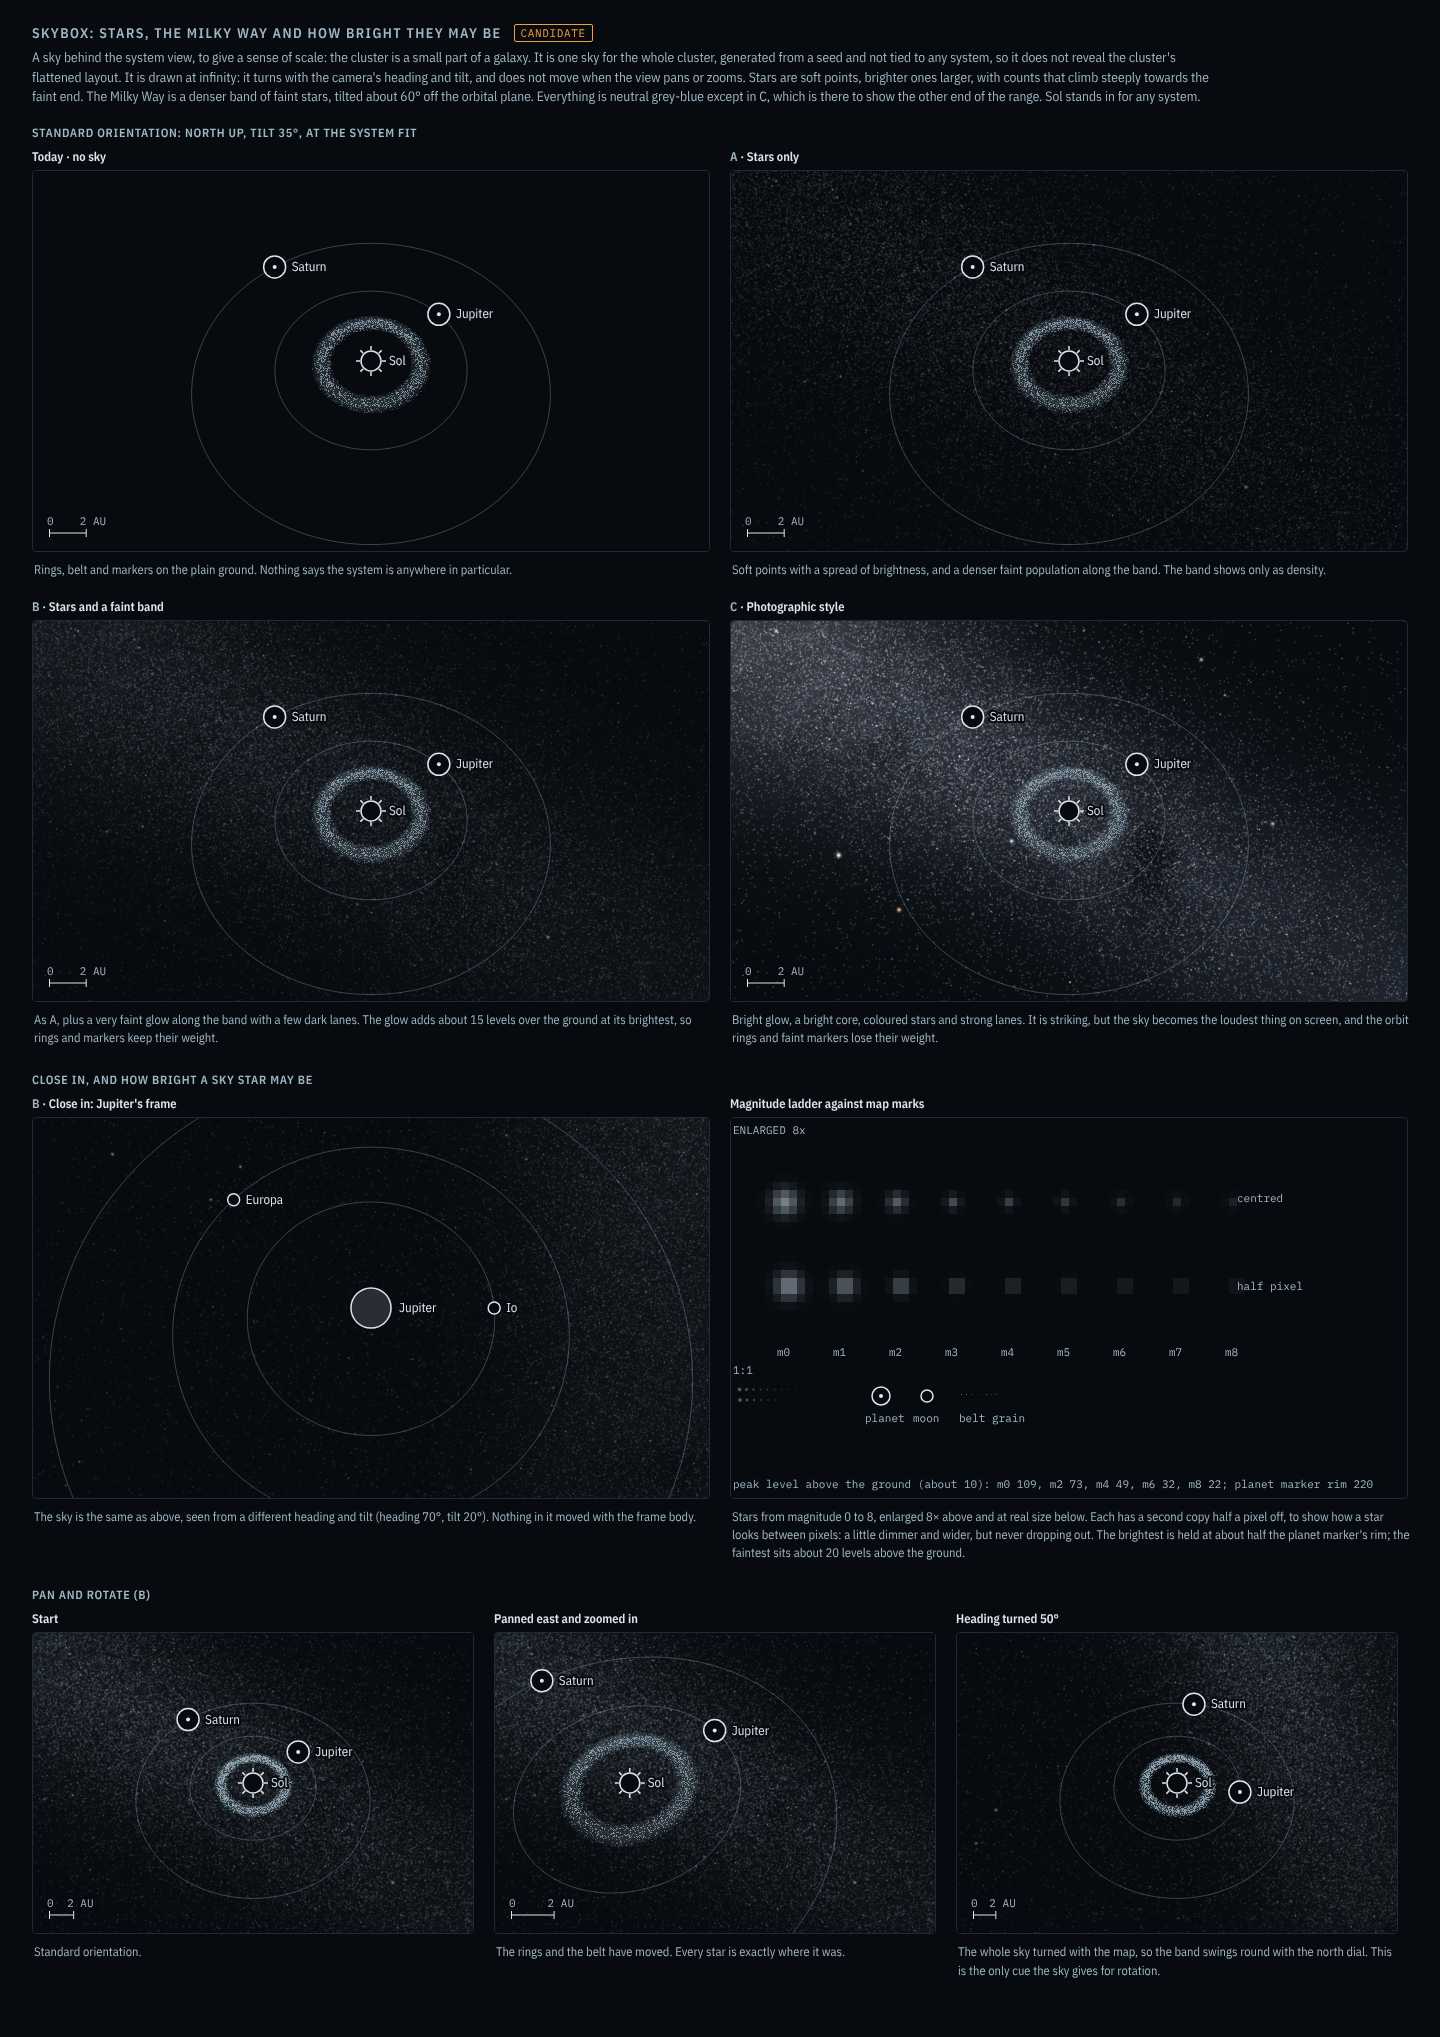
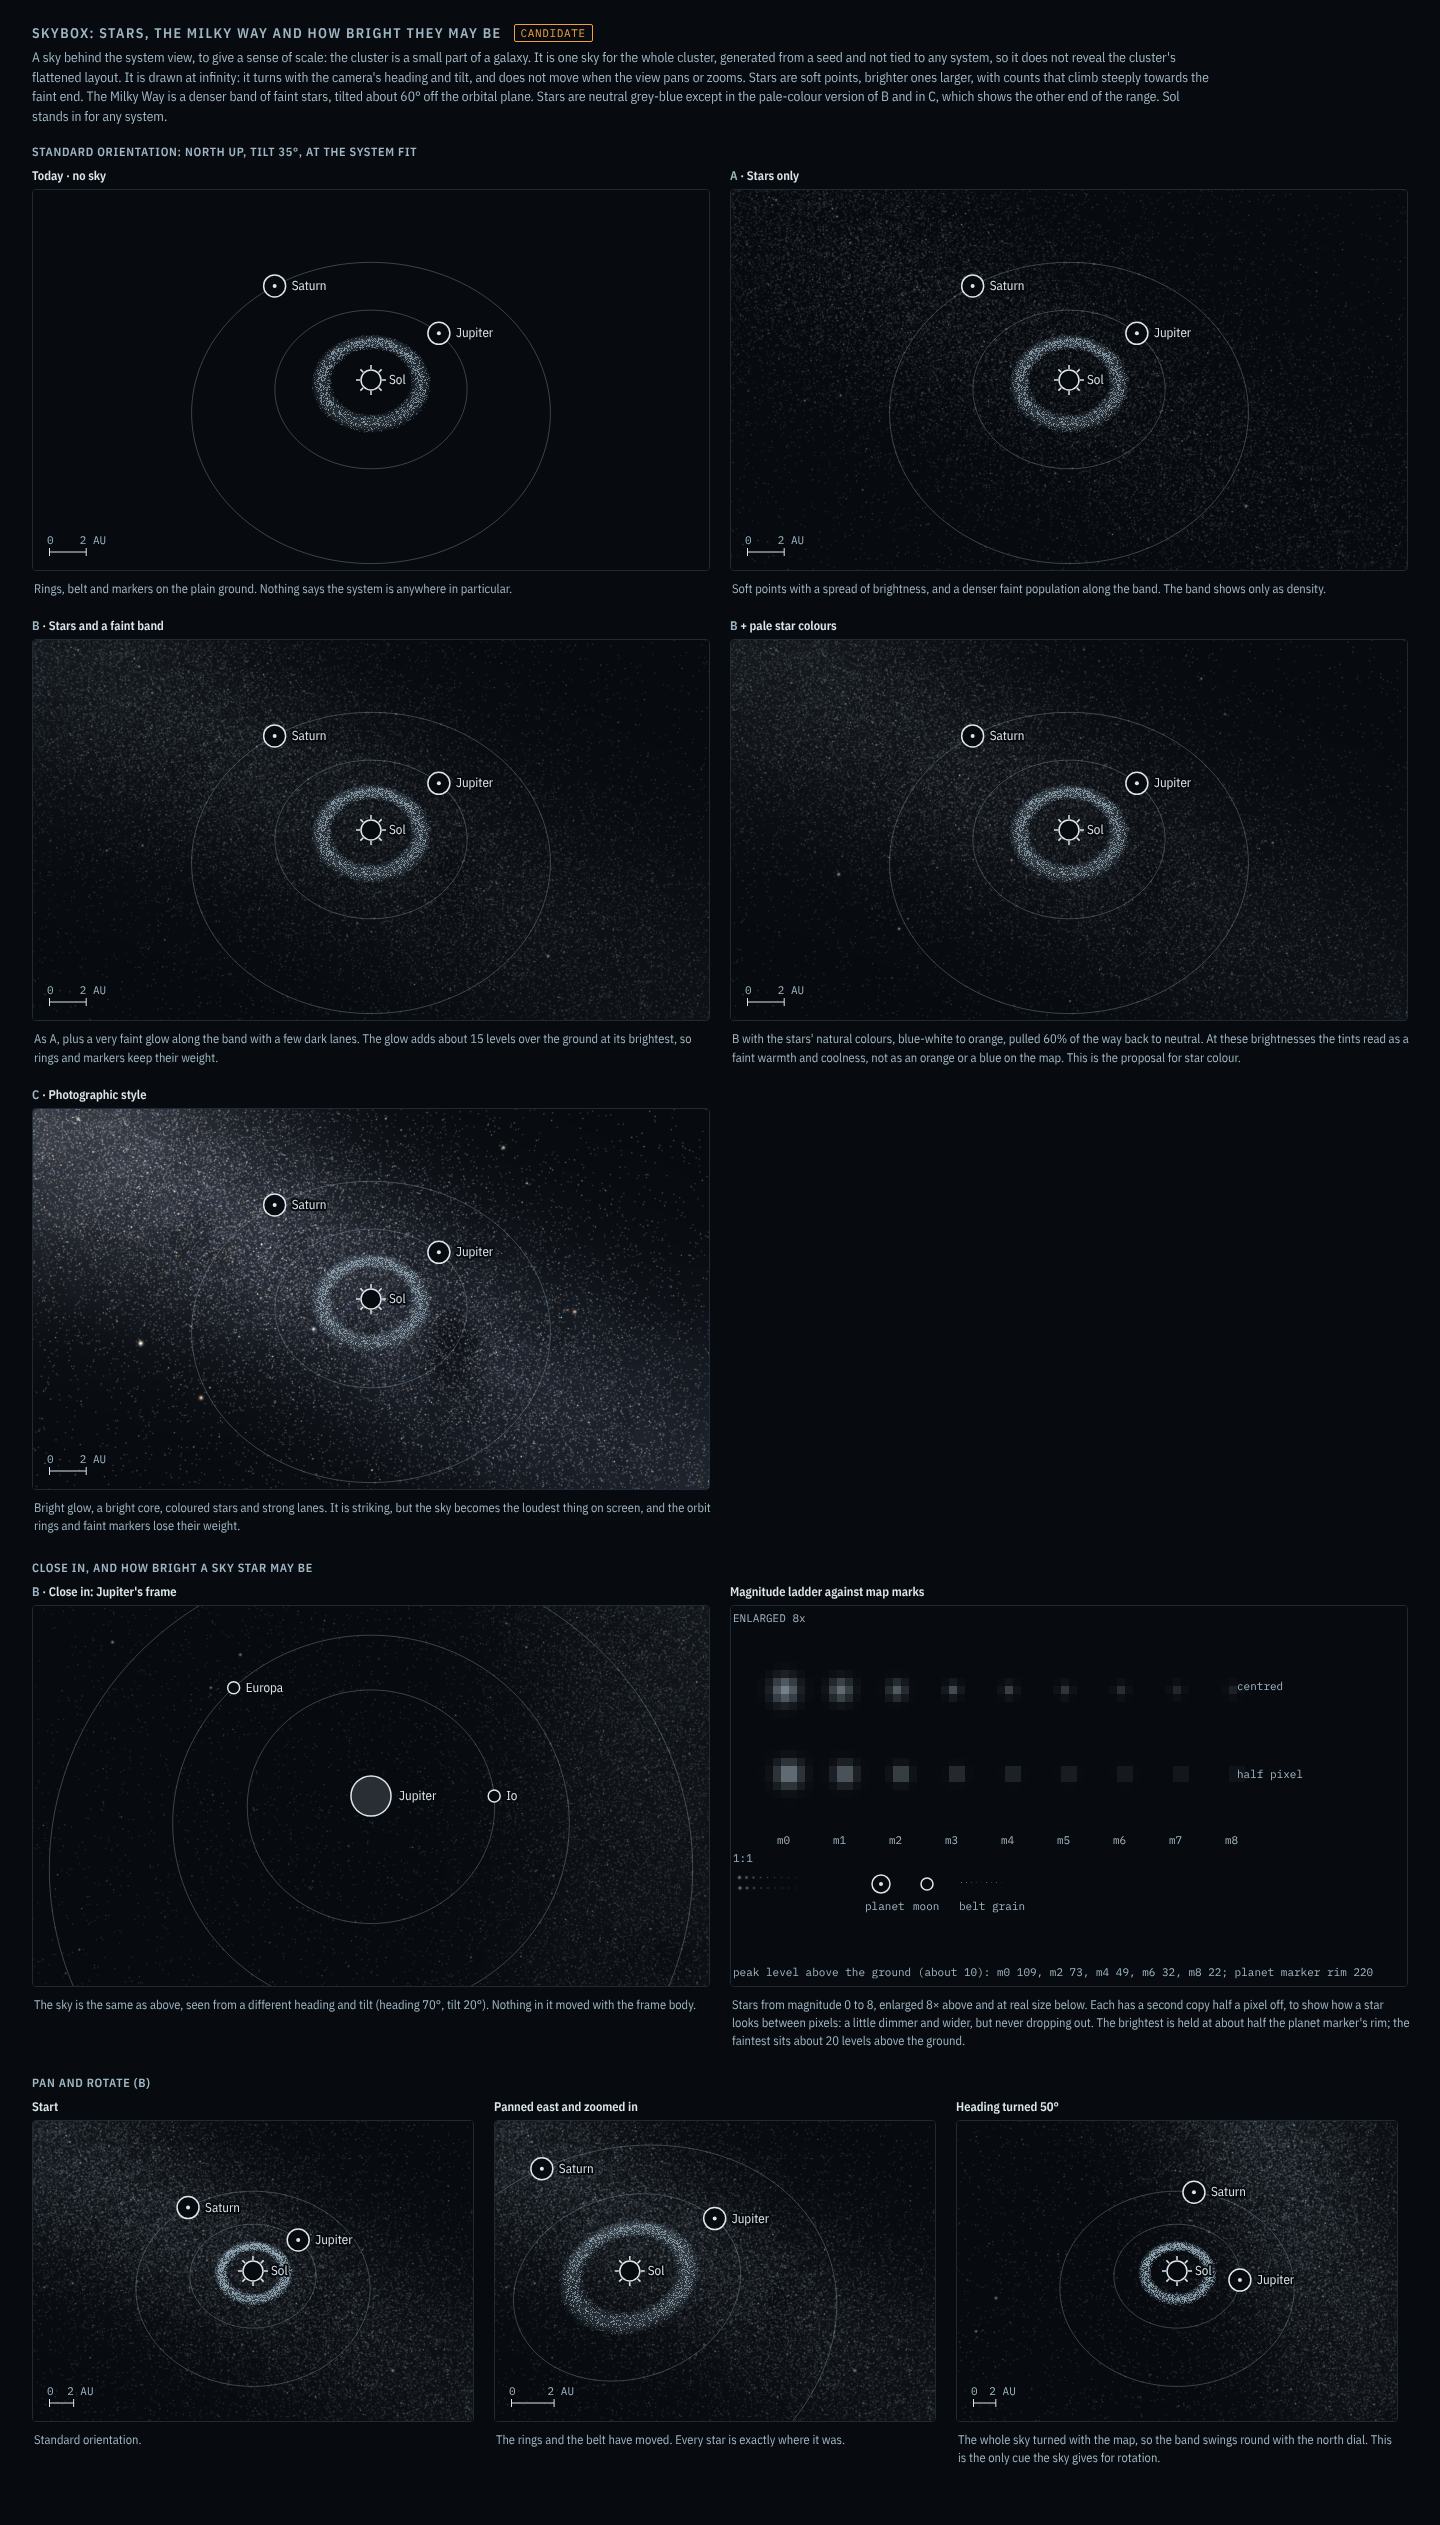
Ideas: sky settled on style B, on by default, pale star colours, no text cue
Adds a pale-colour version of B to mock-up 28. The layers menu is left
as an open question.

Claude-Session: https://claude.ai/code/session_01Ya1hy8ocgamxqfcSSB6nF7

diff --git a/docs/ideas/presentation/mockups/28-skybox.html b/docs/ideas/presentation/mockups/28-skybox.html
@@ -37,7 +37,7 @@ h1{font-size:14px;font-weight:600;color:var(--muted);letter-spacing:.1em;text-tr
 </head>
 <body>
 <h1>Skybox: stars, the Milky Way and how bright they may be <span class="tag">CANDIDATE</span></h1>
-<p class="lede">A sky behind the system view, to give a sense of scale: the cluster is a small part of a galaxy. It is one sky for the whole cluster, generated from a seed and not tied to any system, so it does not reveal the cluster's flattened layout. It is drawn at infinity: it turns with the camera's heading and tilt, and does not move when the view pans or zooms. Stars are soft points, brighter ones larger, with counts that climb steeply towards the faint end. The Milky Way is a denser band of faint stars, tilted about 60° off the orbital plane. Everything is neutral grey-blue except in C, which is there to show the other end of the range. Sol stands in for any system.</p>
+<p class="lede">A sky behind the system view, to give a sense of scale: the cluster is a small part of a galaxy. It is one sky for the whole cluster, generated from a seed and not tied to any system, so it does not reveal the cluster's flattened layout. It is drawn at infinity: it turns with the camera's heading and tilt, and does not move when the view pans or zooms. Stars are soft points, brighter ones larger, with counts that climb steeply towards the faint end. The Milky Way is a denser band of faint stars, tilted about 60° off the orbital plane. Stars are neutral grey-blue except in the pale-colour version of B and in C, which shows the other end of the range. Sol stands in for any system.</p>
 
 <section class="board"><h2>Standard orientation: north up, tilt 35°, at the system fit</h2>
   <div class="row">
@@ -47,6 +47,8 @@ h1{font-size:14px;font-weight:600;color:var(--muted);letter-spacing:.1em;text-tr
       <p class="cap">Soft points with a spread of brightness, and a denser faint population along the band. The band shows only as density.</p></div>
     <div class="cell"><h3><i>B</i> · Stars and a faint band</h3><div class="frame" id="a2"></div>
       <p class="cap">As A, plus a very faint glow along the band with a few dark lanes. The glow adds about 15 levels over the ground at its brightest, so rings and markers keep their weight.</p></div>
+    <div class="cell"><h3><i>B</i> + pale star colours</h3><div class="frame" id="a4"></div>
+      <p class="cap">B with the stars' natural colours, blue-white to orange, pulled 60% of the way back to neutral. At these brightnesses the tints read as a faint warmth and coolness, not as an orange or a blue on the map. This is the proposal for star colour.</p></div>
     <div class="cell"><h3><i>C</i> · Photographic style</h3><div class="frame" id="a3"></div>
       <p class="cap">Bright glow, a bright core, coloured stars and strong lanes. It is striking, but the sky becomes the loudest thing on screen, and the orbit rings and faint markers lose their weight.</p></div>
   </div>
@@ -145,9 +147,12 @@ class Splat{
 const STYLE={
   A:{vmax:.55,gamma:.22,glow:0,colour:false},
   B:{vmax:.55,gamma:.22,glow:.085,colour:false},
+  Bp:{vmax:.55,gamma:.22,glow:.085,colour:false,pale:true},
   C:{vmax:.95,gamma:.22,glow:.30,colour:true}
 };
 const STARS={mono:makeStars(7,{nIso:40000,nBand:110000,colour:false}),col:makeStars(7,{nIso:40000,nBand:110000,colour:true})};
+const NEU=[.78,.84,.88];
+STARS.pale=STARS.col.map(st=>({d:st.d,m:st.m,c:st.c.map((v,k)=>NEU[k]+(v-NEU[k])*.4)}));   // the same colours, a 0.4 share of the way from neutral
 const starAmp=(m,s)=>s.vmax*Math.pow(10,-.4*s.gamma*m);
 const starSigma=(m)=>.55+.17*Math.max(0,3.2-m);
 
@@ -164,7 +169,7 @@ function drawSky(ctx,cam,key){
       for(let k=0;k<3;k++)buf.p[o+k]+=v*(cool[k]*(1-mixc*.6)+tint[k]*mixc*.6);
     }
   }
-  for(const st of (s.colour?STARS.col:STARS.mono)){
+  for(const st of (s.pale?STARS.pale:s.colour?STARS.col:STARS.mono)){
     const q=cam.dir(st.d);if(!q||q[0]<-8||q[1]<-8||q[0]>cam.W+8||q[1]>cam.H+8)continue;
     buf.add(q[0],q[1],starAmp(st.m,s),starSigma(st.m)*(s.colour&&st.m<2?1.5:1),st.c);
   }
@@ -242,6 +247,7 @@ const W1=676,H1=380,STD={heading:0,tilt:35,dist:25};
 panel('a0',W1,H1,STD,null,overview);
 panel('a1',W1,H1,STD,'A',overview);
 panel('a2',W1,H1,STD,'B',overview);
+panel('a4',W1,H1,STD,'Bp',overview);
 panel('a3',W1,H1,STD,'C',overview);
 const jup=pos(PL.Jupiter);
 panel('b1',W1,H1,{heading:70,tilt:20,dist:.0105,pivot:jup},'B',(ctx,cam)=>closeIn(ctx,cam,jup));

diff --git a/docs/ideas/presentation/presentation.md b/docs/ideas/presentation/presentation.md
@@ -50,15 +50,16 @@ The first three are spatial layers, nested from sector down to planet. Faction a
   - Moons fold into a neutral ring behind a body's marker, with a dim "+N" on its label; ships, groups and stations fold into a small pip down and to the right, which pops out into a count marker near the pointer or when the body is selected (specced: GRP; decided 2026-10-16, from F-244, F-229 and F-239, reasoning in *Symbology* 4).
   - Asteroid belts and debris fields appear as density shading. Surveyed, claimed or active sites get individual markers.
   - Information layers can be switched on and off: ownership, resources, salvage, traffic, sensor coverage, sky.
-- **Sky (candidate, 2026-10-17):** a star field and Milky Way behind the system view, to give a sense of scale: the cluster is a small part of a galaxy. Procedural, with no art assets. Mock-up 28 compares styles.
+- **Sky (direction, 2026-10-17):** a star field and Milky Way behind the system view, to give a sense of scale: the cluster is a small part of a galaxy. Procedural, with no art assets. Mock-up 28 compares styles.
   - **One sky for the whole cluster, from a seed, tied to no system.** The galaxy is far off, so every system sees the same sky; Sol is no exception. It is not drawn from the cluster's own stars. The flattened cluster is a playability concession (*World Generator* 1), and true bearings to its neighbours would show it as a band of unusually bright stars. Neighbours stay on the cluster view and the gate edge tabs.
   - **Drawn at infinity.** It turns with heading and tilt and never moves on pan or zoom, so it reads as far away. Beside the north dial it is the other cue for rotation, and it fits the non-rotating reference frame.
   - **Stars:** soft points, placed between pixels so they don't flicker as the view turns. Magnitude comes from a steep distribution (about 2.5 times as many stars for each magnitude fainter), so there are a few bright stars, some medium and a faint majority. Brighter stars are larger. Light is compressed so the faintest star sits about 20 levels above the ground and the brightest stays near half the neutral marker colour, so no star competes with a marker or a selection bracket.
   - **Milky Way:** a denser population of faint stars along a band about 60° off the orbital plane, so it crosses the view at a slant and swings round as the player rotates. It is brighter towards one core and has a few dark lanes.
-  - **Style (proposed: B).** A is stars only, with the band shown by density. B adds a very faint glow (about 15 levels over the ground). C is photographic, with colour and a bright core. C is the loudest thing on screen and weakens the orbit rings and faint markers, so it is not proposed for the map. B is proposed over A because the band reads at a glance.
-  - **Neutral grey-blue only.** Colour has meaning on the map (*Interface Style* 2), so the sky takes none.
+  - **Style (decided: B).** Stars with a very faint glow along the band (about 15 levels over the ground), so the band reads at a glance. Stars only (A) shows the band by density alone. Photographic (C), with strong colour and a bright core, is the loudest thing on screen and weakens the orbit rings and faint markers, so it is rejected for the map.
+  - **Star colour (decided): a natural spread, kept pale.** Blue-white to orange, pulled most of the way back to neutral, so no star reads as an affiliation colour or the warning orange (*Interface Style* 2). The glow is neutral grey-blue.
+  - **No text cue (decided).** The sky carries no labels.
   - **Against the belt grain:** the belt (MRK-18) is also faint points. The sky stays dimmer than the grain and holds still when the view pans, which tells them apart.
-  - **Layer:** below everything in the draw order, never a hover or click target, and switchable like the other information layers.
+  - **Layer, on by default (decided).** Below everything in the draw order and never a hover or click target. The player can switch it off like the other information layers: a display preference, not game state.
 - **Motion (candidate):** ship paths are drawn as their actual arcs, including burns: solid behind the ship, dashed ahead, and dashed from the departure point for a scheduled transfer. Transfer planning shows one live preview path with the arrival point on the target's ring, plus slider tracks coloured by delta-v; this replaces the earlier fan of labelled alternative paths (*Orbital Transfers* 3.3). How fast-orbiting objects are drawn is set by the motion rule (specced: MOT).
 - **Sector view (decided):** the same style as the system view, with systems as nodes and gates as links. Gate throughput, reliability and ownership could show as line weight, line style and colour (candidate). **Specced** 2026-10-16 as a minimal truth view that shows every star and every link by state, whatever anyone knows: working solid, dormant dashed, collapsed faint (`docs/spec/sector-view.md`). A view filtered by knowledge replaces it later. Why: the generator's output has to be seen and checked before anything is hidden from the player.
 
@@ -150,7 +151,7 @@ The vector layer is cheap to produce, and so is the sky: it is generated, with n
 - What owning a planet or moon means (surface assets may belong to different parties), and how to show it. The map draws natural bodies in neutral white and shows no ownership for now (MRK-10, from playtest finding F-108).
 - Body discs (decided 2026-10-13, from F-114): solid white discs at 36/30/24 px looked heavy and merged in the inner system. Bodies are now outlined discs with a dim fill and a dark gap, at 28/22/18 px (Specced: MRK-03, MRK-11). Same size with the outline was the alternative.
 - Faction colours beyond the affiliation colours in `symbology.md`.
-- Sky: which style (B is proposed), whether it is on by default, whether a text cue is wanted (such as the direction of the galactic centre), and whether stars take any colour. Whether the planetary view and the inspection inset show a richer sky is a separate question.
+- Layers: how the player switches them (the sky, the frame cue, and later ownership, resources and traffic). A Layers button in the top bar that opens a short checklist is proposed. Whether the planetary view and the inspection inset show a richer sky is a separate question.
 - Zoom: step factor, animation timing, strength of the resistance at stops, the minimum view radius, and the standard tilt.
 - Camera: the final tilt limit and pan and rotate speeds after testing; the tilt range for the sector view.
 - Motion rule: final values for R_show, `tail_secs` and `dot_fade_from_degrees` after testing; whether the label should glide from the dot to its fixed spot on the ring as the tail closes, rather than jump.

diff --git a/docs/ideas/presentation/mockups/README.md b/docs/ideas/presentation/mockups/README.md
@@ -28,7 +28,7 @@ Boards 1 to 6 are from the design canvas "Inspect & Planetary Transition"; 7 onw
 | `22-moon-count-label-weight.png` | How loud the moon count beside a planet's stacked ring should be: "N moons" on a second line, number only in the dim colour, number inline, and ring only with the count on hover; labels enlarged (2026-10-16, from F-244). Source: `22-moon-count-label-weight.html`; `../symbology.md` 4 |
 | `26-objects-and-moons-on-the-planet-marker.png` | Moons and objects kept apart: a neutral moon ring with the moon count, and a separate resting object marker down and to the right, as a 12 px frame with a count (A) or a 6 px pip (B), growing into the multi-marker on approach (2026-10-16, from F-229 and F-239). Source: `26-objects-and-moons-on-the-planet-marker.html`; `../symbology.md` 4 |
 | `27-resting-pips-for-mixed-objects.png` | The resting object pip for mixed affiliations: front pip the most pressing, back pip own when any is own, none for a single object; real size, enlarged, and popped out (2026-10-16, from F-229 and F-239). Source: `27-resting-pips-for-mixed-objects.html`; `../symbology.md` 4 |
-| `28-skybox.png` | A sky behind the system view: no sky, stars only (A), stars with a faint band (B), photographic style (C); close in; a magnitude ladder against the map marks; and the sky holding still under pan and turning with heading (2026-10-17). Procedural, drawn at infinity. Source: `28-skybox.html`; `../presentation.md` 2 |
+| `28-skybox.png` | A sky behind the system view: no sky, stars only (A), stars with a faint band (B), B with pale star colours, photographic style (C); close in; a magnitude ladder against the map marks; and the sky holding still under pan and turning with heading (2026-10-17). Procedural, drawn at infinity. Source: `28-skybox.html`; `../presentation.md` 2 |
 
 How to use them:
 
